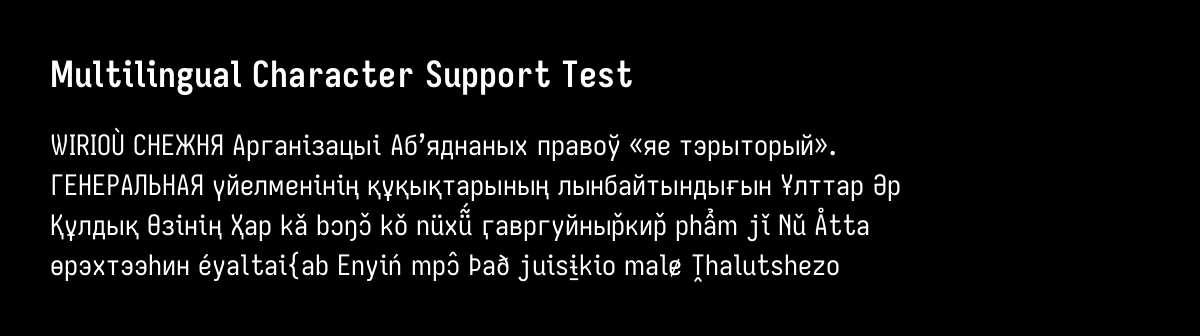
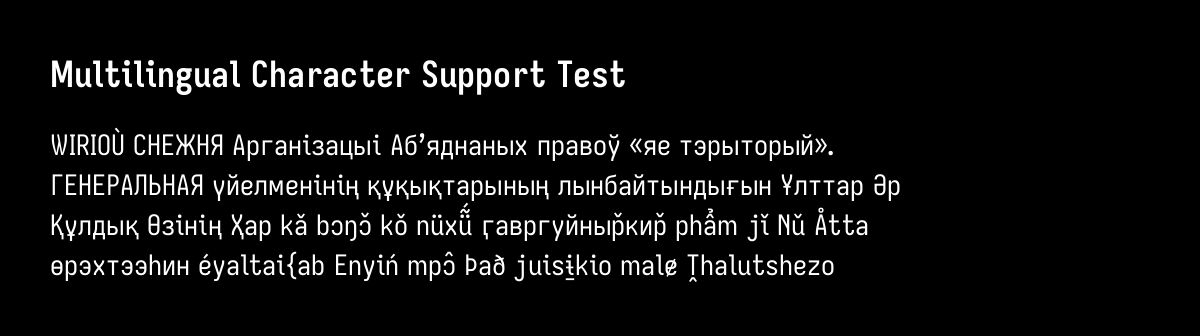
Fix kern feature not visible to shapers (missing ScriptList registration)
The kern feature was appended to the GPOS FeatureList but not
registered in any Script/LangSys FeatureIndex, so HarfBuzz and
other shapers never discovered it. Now register the kern feature
in every script's DefaultLangSys and all LangSysRecords.

Regenerate specimen images — kerning differences now visible.

Changed region(s): [[0.185, 0.744, 0.7092, 0.8333], [0.0925, 0.1786, 0.5242, 0.2976], [0.6167, 0.625, 0.74, 0.7143]]

diff --git a/scripts/autokern.py b/scripts/autokern.py
@@ -415,6 +415,16 @@ def _inject_kern_lookup(
             gpos_table.FeatureList.FeatureRecord
         )
 
+        # Register the new kern feature in every script/language so
+        # HarfBuzz (and other shapers) can discover it.
+        kern_feat_idx = len(gpos_table.FeatureList.FeatureRecord) - 1
+        for script_rec in gpos_table.ScriptList.ScriptRecord:
+            script = script_rec.Script
+            if script.DefaultLangSys is not None:
+                script.DefaultLangSys.FeatureIndex.append(kern_feat_idx)
+            for lang_rec in (script.LangSysRecord or []):
+                lang_rec.LangSys.FeatureIndex.append(kern_feat_idx)
+
     return True
 
 
